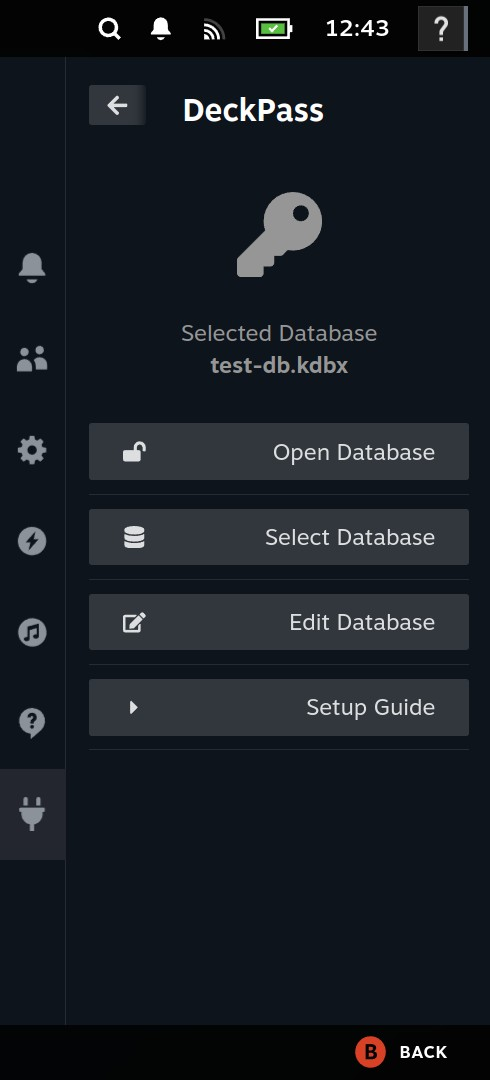
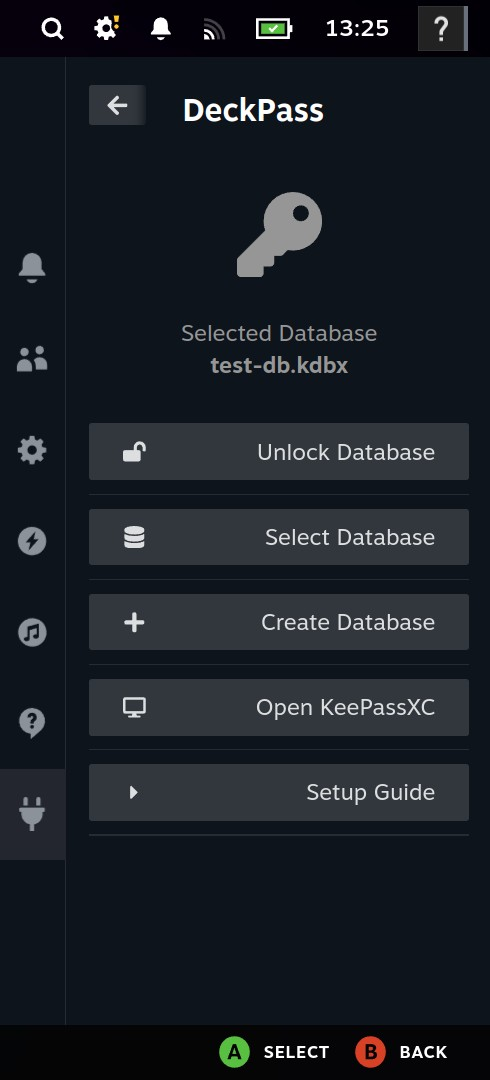
Updated screenshots

diff --git a/README.md b/README.md
@@ -5,6 +5,8 @@ Internally it uses KeePassXC.
 <p float="left">
 <img src="./assets/screenshot1.jpg" alt="Showcase video" width="300"/>
 <img src="./assets/screenshot2.jpg" alt="Showcase static" width="300"/>
+<img src="./assets/screenshot3.jpg" alt="Showcase static" width="600"/>
+<img src="./assets/screenshot4.jpg" alt="Showcase static" width="600"/>
 </p>
 
 ## Plugin Setup
